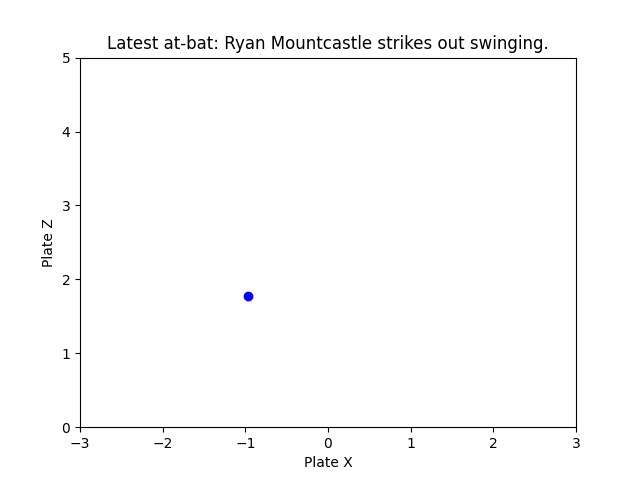
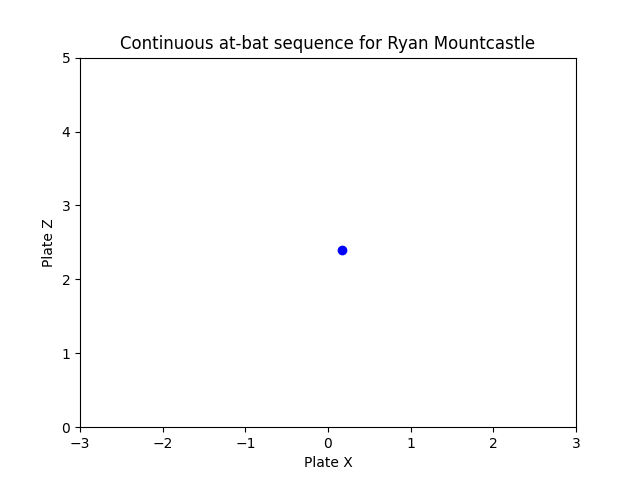
displaying matchup fully fuctional

Changed region(s): [[0.1562, 0.0625, 0.8438, 0.125], [0.5312, 0.5, 0.5625, 0.5312], [0.375, 0.5938, 0.4062, 0.625]]

diff --git a/frontend/src/views/MatchupView.vue b/frontend/src/views/MatchupView.vue
@@ -244,14 +244,16 @@
         .catch(error => console.error('Failed to upload file:', error));
     },
     fetchLatestAtBatPlot() {
+      const timestamp = new Date().getTime();
       axios.get(`http://localhost:5000/fetch_latest_at_bat_plot`, { params: { player_name: this.selectedPlayer } })
         .then(response => {
-          this.imageUrl = response.data.image_url;
+          this.generatedImageUrl = `${response.data.image_url}?t=${timestamp}`;
+          this.showImage = true;
         })
         .catch(error => {
           console.error("Error fetching latest at-bat plot:", error);
         });
-        this.showImage = true;
+        
     },
 analyzePitcherData() {
   if (this.selectedPitcherIndex === null || !this.csvData) return;

diff --git a/backend/app/routes.py b/backend/app/routes.py
@@ -125,12 +125,13 @@ def upload_csv():
 
 os.makedirs('static', exist_ok=True)
 
+
 @app.route('/fetch_latest_at_bat_plot', methods=['GET'])
 def fetch_latest_at_bat_plot():
     player_name = request.args.get('player_name')
     if not player_name:
         return jsonify({'error': 'Player name parameter is missing'}), 400
-    
+
     if df_global.empty or 'player_from_des' not in df_global.columns:
         return jsonify({'error': 'No data available or incorrect data format'}), 400
 
@@ -141,7 +142,10 @@ def fetch_latest_at_bat_plot():
     start_index = mask[mask].index[0]
     end_index = mask[start_index:].idxmin() if False in mask[start_index:].values else None
 
-    player_data = df_global.iloc[start_index:end_index]
+    # Subset the data for the player
+    player_data = df_global[start_index:end_index]
+    player_data = player_data[player_data['des'] == player_data.loc[start_index, 'des']]
+
     if player_data.empty:
         return jsonify({'error': 'No data found for this player'}), 404
 
@@ -149,7 +153,18 @@ def fetch_latest_at_bat_plot():
 
     # Generate plot
     fig, ax = plt.subplots()
-    ax.scatter([latest_at_bat['plate_x']], [latest_at_bat['plate_z']], color='blue')
+    ax.scatter(player_data['plate_x'], player_data['plate_z'], color='blue')
+
+    # Adding a strike zone box
+    strike_zone_bottom = 1.5
+    strike_zone_top = 3.5
+    plate_width = 1.42
+    ax.add_patch(plt.Rectangle((-plate_width/2, strike_zone_bottom), plate_width, strike_zone_top - strike_zone_bottom, fill=False, color='red', lw=2))
+
+    # Annotating points
+    for i, point in enumerate(player_data.itertuples(), 1):
+        ax.annotate(str(i), (point.plate_x, point.plate_z), textcoords="offset points", xytext=(0,10), ha='center')
+
     ax.set_xlim(-3, 3)
     ax.set_ylim(0, 5)
     ax.set_title(f"Latest at-bat: {latest_at_bat['des']}")
@@ -157,14 +172,15 @@ def fetch_latest_at_bat_plot():
     ax.set_ylabel('Plate Z')
 
     # Save the plot to a file
-    filename = f"latest_at_bat.png"
-    file_path = f"C:/Users/davis/Documents/PitchTek/frontend/src/assets/static/{filename}"
+    current_directory = os.path.dirname(os.path.abspath(__file__))
+    base_directory = os.path.dirname(os.path.dirname(os.path.dirname(current_directory)))
+    filename = "latest_at_bat.png"
+    file_path = os.path.join(base_directory, 'Pitchtek/frontend/src/assets/static/', filename)
     plt.savefig(file_path)
     plt.close(fig)
 
-    # Return the URL to the saved image
-    image_url = f"{request.host_url}static/{filename}"
-    return jsonify({'image_url': image_url})
+    return jsonify({'image_url': f'static/{filename}'})
+
 
 
 @app.route('/get_latest_image', methods=['GET'])
